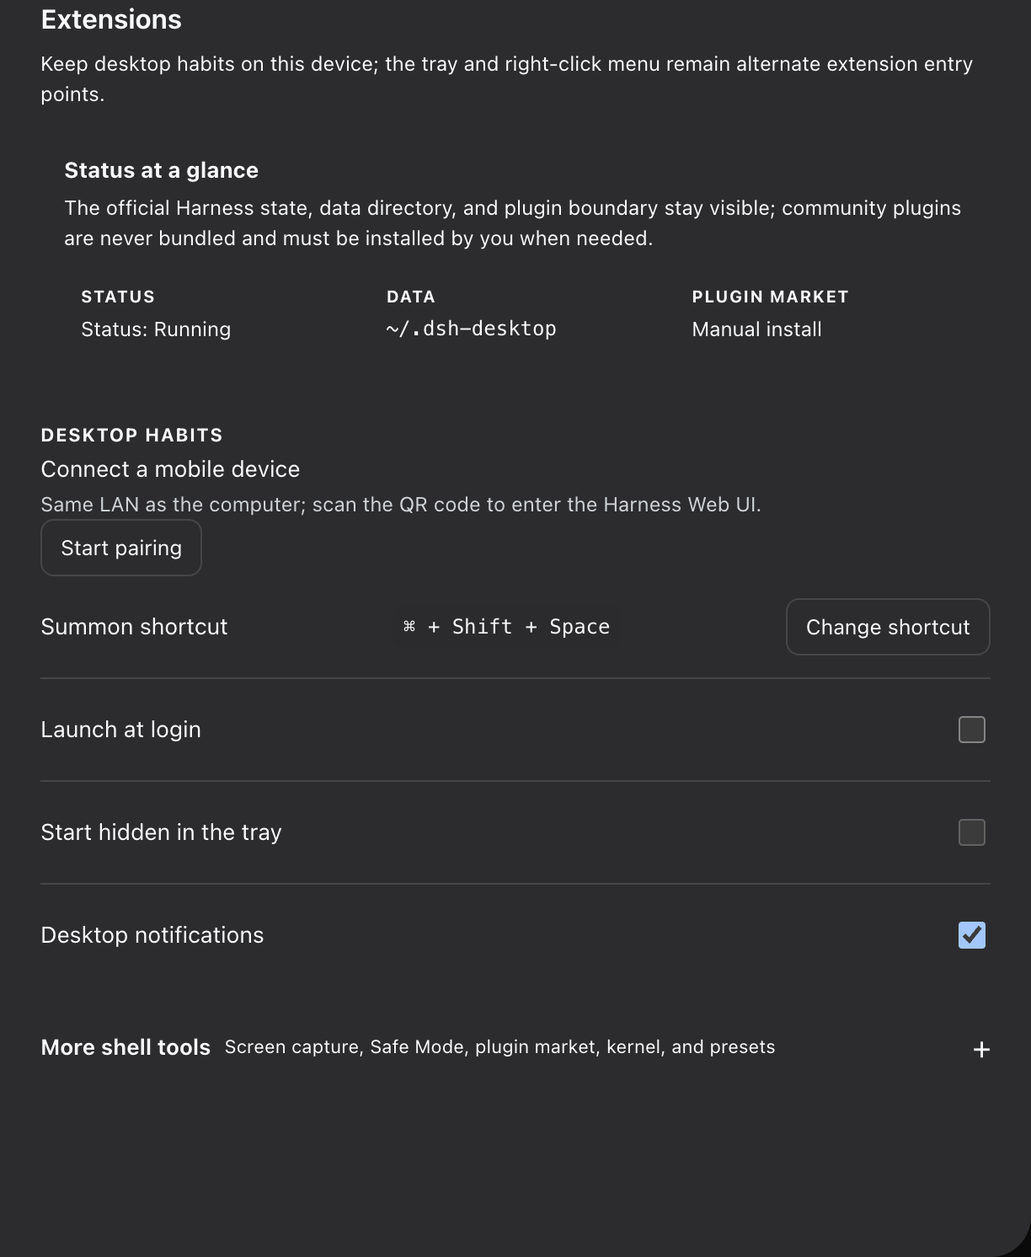
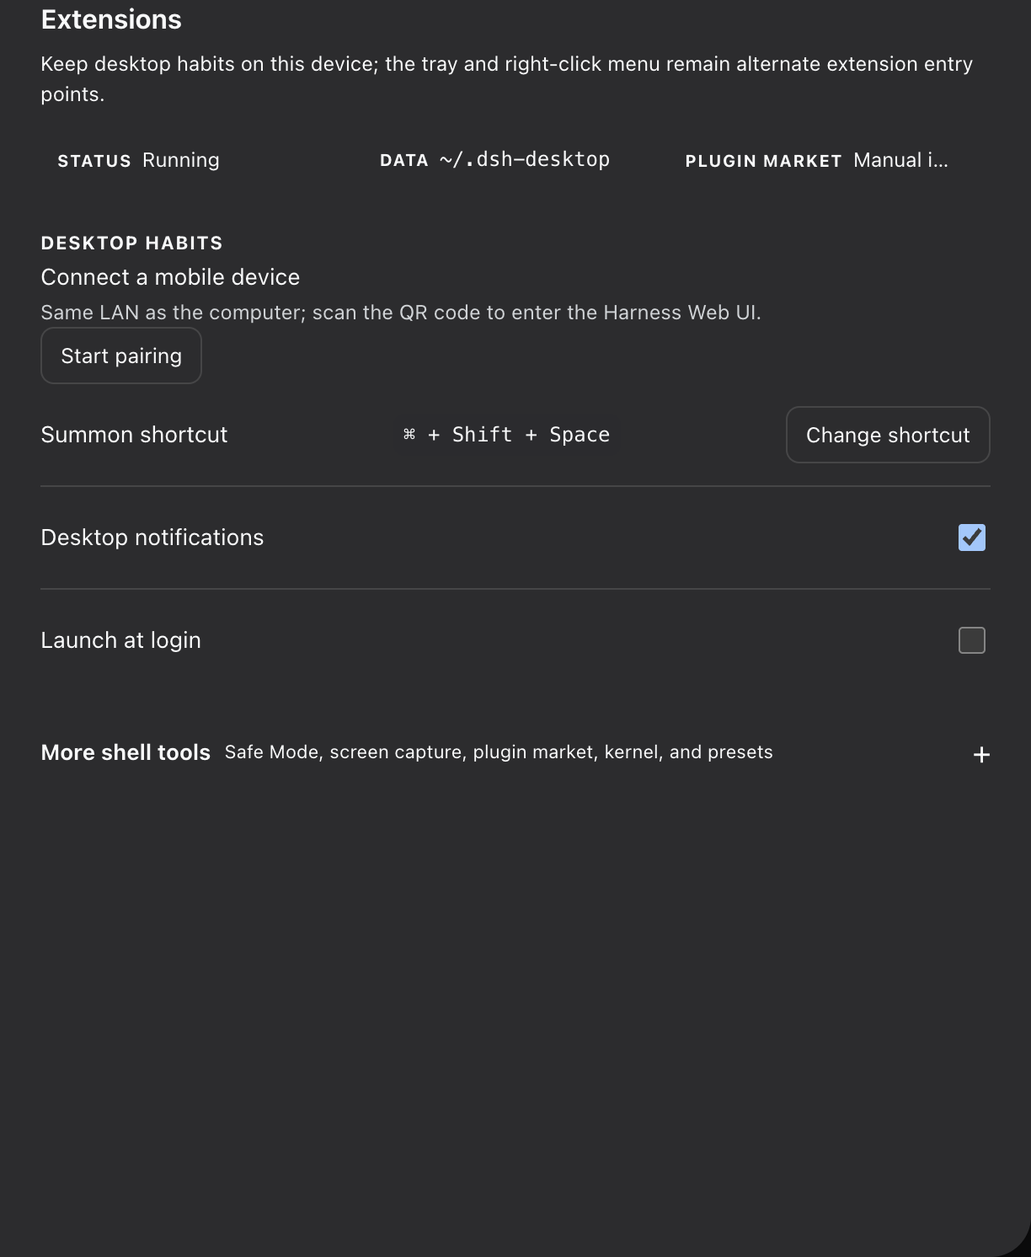
fix(shell): prioritize usable extension settings

diff --git a/plugins/dsh-desktop-controls/lib/client.js b/plugins/dsh-desktop-controls/lib/client.js
@@ -172,25 +172,33 @@ window.__ModuleLoader__.load({
       [data-dsh-desktop-settings] [data-dsh-desktop-setting-row]:last-child { border-bottom: 0; }
       [data-dsh-desktop-settings] [data-dsh-desktop-status-summary] {
         display: grid;
-        gap: 8px;
+        gap: 0;
         grid-template-columns: repeat(3, minmax(0, 1fr));
-        margin-top: 10px;
+        margin-top: 0;
       }
       [data-dsh-desktop-settings] [data-dsh-desktop-status-item] {
-        background: color-mix(in srgb, var(--dsh-controls-accent) 6%, transparent);
-        border: 1px solid color-mix(in srgb, var(--dsh-controls-accent) 16%, var(--dsh-controls-border));
-        border-radius: 9px;
-        display: block;
+        align-items: baseline;
+        background: transparent;
+        border: 0;
+        border-left: 1px solid color-mix(in srgb, var(--dsh-controls-accent) 20%, var(--dsh-controls-border));
+        border-radius: 0;
+        display: flex;
+        gap: 6px;
         min-width: 0;
-        padding: 8px 10px;
+        padding: 1px 10px;
+      }
+      [data-dsh-desktop-settings] [data-dsh-desktop-status-item]:first-child {
+        border-left: 0;
+        padding-left: 0;
       }
       [data-dsh-desktop-settings] [data-dsh-desktop-status-item] strong {
         color: var(--dsh-controls-muted);
-        display: block;
+        display: inline;
+        flex: 0 0 auto;
         font-size: 10px;
         font-weight: 700;
         letter-spacing: .06em;
-        margin-bottom: 3px;
+        margin: 0;
         text-transform: uppercase;
       }
       [data-dsh-desktop-settings] [data-dsh-desktop-status-item] > span,
@@ -199,6 +207,7 @@ window.__ModuleLoader__.load({
         font-size: 12px;
         line-height: 1.35;
         overflow: hidden;
+        min-width: 0;
         text-overflow: ellipsis;
         white-space: nowrap;
       }
@@ -266,35 +275,14 @@ window.__ModuleLoader__.load({
         margin: 10px 0 0;
       }
       [data-dsh-desktop-onboarding] {
+        align-items: center;
         background: color-mix(in srgb, var(--dsh-controls-accent) 7%, transparent);
         border: 1px solid color-mix(in srgb, var(--dsh-controls-accent) 18%, var(--dsh-controls-border));
-        border-radius: 12px;
-        margin: 0 0 16px;
-        padding: 12px 14px;
+        border-radius: 10px;
+        display: grid;
+        margin: 0 0 12px;
+        padding: 7px 10px;
       }
-      [data-dsh-desktop-onboarding] [data-dsh-desktop-onboarding-title] {
-        font-size: 13px;
-        font-weight: 700;
-        margin: 0;
-      }
-      [data-dsh-desktop-onboarding] [data-dsh-desktop-onboarding-copy] {
-        color: var(--dsh-controls-muted);
-        font-size: 12px;
-        line-height: 1.5;
-        margin: 3px 0 8px;
-      }
-      [data-dsh-desktop-onboarding] ol { list-style: none; margin: 0; padding: 0; }
-      [data-dsh-desktop-onboarding] li {
-        align-items: baseline;
-        display: flex;
-        gap: 7px;
-        font-size: 12px;
-        line-height: 1.5;
-        margin: 4px 0;
-      }
-      [data-dsh-desktop-onboarding] li::before { color: var(--dsh-controls-accent); content: "✓"; font-weight: 800; }
-      [data-dsh-desktop-onboarding] li[data-dsh-onboarding-pending]::before { content: "•"; }
-      [data-dsh-desktop-onboarding] code { font-size: 11px; overflow-wrap: anywhere; }
       [data-dsh-desktop-settings-group] {
         border-top: 1px solid var(--dsh-controls-border);
         margin-top: 14px;
@@ -380,6 +368,16 @@ window.__ModuleLoader__.load({
         [data-dsh-desktop-controls] { top: 12px; right: 12px; }
         [data-dsh-desktop-controls] [data-dsh-controls-label] { display: none; }
         [data-dsh-desktop-settings] [data-dsh-desktop-status-summary] { grid-template-columns: 1fr; }
+        [data-dsh-desktop-settings] [data-dsh-desktop-status-item],
+        [data-dsh-desktop-settings] [data-dsh-desktop-status-item]:first-child {
+          border-left: 0;
+          border-top: 1px solid color-mix(in srgb, var(--dsh-controls-accent) 20%, var(--dsh-controls-border));
+          padding: 7px 0 1px;
+        }
+        [data-dsh-desktop-settings] [data-dsh-desktop-status-item]:first-child {
+          border-top: 0;
+          padding-top: 1px;
+        }
       }
       @media (prefers-reduced-motion: reduce) {
         [data-dsh-desktop-controls] [data-dsh-controls-trigger] { transition: none; }
@@ -399,8 +397,6 @@ window.__ModuleLoader__.load({
         restartHarness: "重启 Harness",
         unavailable: "请右键窗口或点击系统托盘图标使用扩展入口。",
         settingsTitle: "扩展设置", settingsCopy: "把本机桌面习惯放在这里；系统托盘和右键窗口也能进入扩展入口。",
-        firstLaunchTitle: "运行状态",
-        firstLaunchCopy: "官方 Harness、数据目录和插件安装边界都保持可见；社区插件不会随包安装，需要时请由你手动安装。",
         harnessReady: "官方 Harness 已就绪",
         harnessStarting: "官方 Harness 正在启动",
         statusLabel: "状态", dataLabel: "数据", marketLabel: "插件市场", marketReady: "已安装", marketManual: "需手动安装",
@@ -429,7 +425,7 @@ window.__ModuleLoader__.load({
         safeModeSuspect: "疑似插件：{id}（{name}），可在官方「设置 → 插件」中卸载。",
         presetsTitle: "Agent 预设", presetsDetail: "导出或导入 .dshpreset 便携预设包，备份或分享 Agent 预设。",
         presetsExport: "导出预设", presetsImport: "导入预设",
-        advancedTitle: "更多扩展工具", advancedDetail: "屏幕捕获、安全模式、插件市场、内核和预设",
+        advancedTitle: "更多扩展工具", advancedDetail: "安全模式、屏幕捕获、插件市场、内核和预设",
         presetExported: "已导出 {name}。", presetImported: "已导入 {name}。",
         presetSkipped: "已跳过 {name}。", presetInvalid: "文件无效或操作失败。",
         presetEmpty: "没有可导出的用户预设。",
@@ -442,8 +438,6 @@ window.__ModuleLoader__.load({
         restartHarness: "Restart Harness",
         unavailable: "Right-click the window or use the system tray for extensions.",
         settingsTitle: "Extensions", settingsCopy: "Keep desktop habits on this device; the tray and right-click menu remain alternate extension entry points.",
-        firstLaunchTitle: "Status at a glance",
-        firstLaunchCopy: "The official Harness state, data directory, and plugin boundary stay visible; community plugins are never bundled and must be installed by you when needed.",
         harnessReady: "Official Harness is ready",
         harnessStarting: "Official Harness is starting",
         statusLabel: "Status", dataLabel: "Data", marketLabel: "Plugin market", marketReady: "Installed", marketManual: "Manual install",
@@ -472,7 +466,7 @@ window.__ModuleLoader__.load({
         safeModeSuspect: "Suspected plugin: {id} ({name}). Uninstall it from Settings → Plugins.",
         presetsTitle: "Agent presets", presetsDetail: "Export or import .dshpreset portable packages to back up or share agent presets.",
         presetsExport: "Export preset", presetsImport: "Import preset",
-        advancedTitle: "More shell tools", advancedDetail: "Screen capture, Safe Mode, plugin market, kernel, and presets",
+        advancedTitle: "More shell tools", advancedDetail: "Safe Mode, screen capture, plugin market, kernel, and presets",
         presetExported: "Exported {name}.", presetImported: "Imported {name}.",
         presetSkipped: "Skipped {name}.", presetInvalid: "The file is invalid or the operation failed.",
         presetEmpty: "There is no user preset to export.",
@@ -782,18 +776,18 @@ window.__ModuleLoader__.load({
       const canLaunch = preferences.launchAtLoginAvailable === true;
       const market = marketStatus ?? startup?.market ?? { state: "missing" };
       const marketState = market.state ?? "missing";
+      const currentStatus = startup?.statusLabel ?? (startup?.harnessPhase === "ready" ? copy.harnessReady : copy.harnessStarting);
+      const compactStatus = currentStatus.replace(/^[^:：]+[:：]\s*/, "");
       return react_jsx_runtime.jsxs("div", {
         "data-dsh-desktop-settings": true,
         children: [
           react_jsx_runtime.jsx("h3", { "data-dsh-desktop-settings-heading": true, children: copy.settingsTitle }),
           react_jsx_runtime.jsx("p", { "data-dsh-desktop-settings-copy": true, children: copy.settingsCopy }),
-          react_jsx_runtime.jsxs("section", { "data-dsh-desktop-onboarding": true, "aria-label": copy.firstLaunchTitle, children: [
-            react_jsx_runtime.jsx("h4", { "data-dsh-desktop-onboarding-title": true, children: copy.firstLaunchTitle }),
-            react_jsx_runtime.jsx("p", { "data-dsh-desktop-onboarding-copy": true, children: copy.firstLaunchCopy }),
+          react_jsx_runtime.jsxs("section", { "data-dsh-desktop-onboarding": true, "aria-label": copy.statusLabel, children: [
             react_jsx_runtime.jsxs("div", { "data-dsh-desktop-status-summary": true, children: [
               react_jsx_runtime.jsxs("span", { "data-dsh-desktop-status-item": true, children: [
                 react_jsx_runtime.jsx("strong", { children: copy.statusLabel }),
-                react_jsx_runtime.jsx("span", { "data-dsh-onboarding-stage": startup?.harnessStage ?? null, "data-dsh-onboarding-done": startup?.harnessPhase === "ready" || null, "data-dsh-onboarding-pending": startup?.harnessPhase !== "ready" || null, children: startup?.statusLabel ?? (startup?.harnessPhase === "ready" ? copy.harnessReady : copy.harnessStarting) }),
+                react_jsx_runtime.jsx("span", { "data-dsh-onboarding-stage": startup?.harnessStage ?? null, "data-dsh-onboarding-done": startup?.harnessPhase === "ready" || null, "data-dsh-onboarding-pending": startup?.harnessPhase !== "ready" || null, children: compactStatus }),
               ] }),
               react_jsx_runtime.jsxs("span", { "data-dsh-desktop-status-item": true, children: [
                 react_jsx_runtime.jsx("strong", { children: copy.dataLabel }),
@@ -819,21 +813,18 @@ window.__ModuleLoader__.load({
             react_jsx_runtime.jsxs("span", { "data-dsh-desktop-shortcut": true, children: recording ? copy.recording : preferences.shortcutLabel }),
             react_jsx_runtime.jsx("button", { type: "button", "data-dsh-desktop-record": true, disabled: recording, onClick: () => { setMessage(""); setRecording(true); }, children: recording ? "…" : copy.record }),
           ] }),
-          react_jsx_runtime.jsxs("label", { "data-dsh-desktop-setting-row": true, children: [
-            react_jsx_runtime.jsxs("span", { "data-dsh-desktop-setting-label": true, children: [copy.launchAtLogin, !canLaunch ? react_jsx_runtime.jsx("small", { "data-dsh-desktop-setting-detail": true, children: copy.unsupported }) : null] }),
-            react_jsx_runtime.jsx("input", { "data-dsh-desktop-checkbox": true, type: "checkbox", checked: preferences.launchAtLogin === true, disabled: !canLaunch, onChange: (event) => void update({ launchAtLogin: event.target.checked }) }),
-          ] }),
-          react_jsx_runtime.jsxs("label", { "data-dsh-desktop-setting-row": true, children: [
-            react_jsx_runtime.jsx("span", { "data-dsh-desktop-setting-label": true, children: copy.launchHidden }),
-            react_jsx_runtime.jsx("input", { "data-dsh-desktop-checkbox": true, type: "checkbox", checked: preferences.launchHidden === true, disabled: !canLaunch || preferences.launchAtLogin !== true, onChange: (event) => void update({ launchHidden: event.target.checked }) }),
-          ] }),
-          react_jsx_runtime.jsxs("label", { "data-dsh-desktop-setting-row": true, children: [
+          preferences.notificationsAvailable === true ? react_jsx_runtime.jsxs("label", { "data-dsh-desktop-setting-row": true, children: [
             react_jsx_runtime.jsx("span", { "data-dsh-desktop-setting-label": true, children: copy.notifications }),
-            react_jsx_runtime.jsxs("span", { "data-dsh-desktop-lan-actions": true, children: [
-              react_jsx_runtime.jsx("input", { "data-dsh-desktop-checkbox": true, type: "checkbox", checked: preferences.notificationsEnabled === true, disabled: preferences.notificationsAvailable !== true, onChange: (event) => void update({ notificationsEnabled: event.target.checked }) }),
-              preferences.notificationsAvailable !== true ? react_jsx_runtime.jsx("small", { "data-dsh-desktop-setting-detail": true, children: copy.unsupported }) : null,
-            ] }),
-          ] }),
+            react_jsx_runtime.jsx("input", { "data-dsh-desktop-checkbox": true, type: "checkbox", checked: preferences.notificationsEnabled === true, onChange: (event) => void update({ notificationsEnabled: event.target.checked }) }),
+          ] }) : null,
+          canLaunch ? react_jsx_runtime.jsxs("label", { "data-dsh-desktop-setting-row": true, children: [
+            react_jsx_runtime.jsx("span", { "data-dsh-desktop-setting-label": true, children: copy.launchAtLogin }),
+            react_jsx_runtime.jsx("input", { "data-dsh-desktop-checkbox": true, type: "checkbox", checked: preferences.launchAtLogin === true, onChange: (event) => void update({ launchAtLogin: event.target.checked }) }),
+          ] }) : null,
+          canLaunch && preferences.launchAtLogin === true ? react_jsx_runtime.jsxs("label", { "data-dsh-desktop-setting-row": true, children: [
+            react_jsx_runtime.jsx("span", { "data-dsh-desktop-setting-label": true, children: copy.launchHidden }),
+            react_jsx_runtime.jsx("input", { "data-dsh-desktop-checkbox": true, type: "checkbox", checked: preferences.launchHidden === true, onChange: (event) => void update({ launchHidden: event.target.checked }) }),
+          ] }) : null,
           ] }),
           react_jsx_runtime.jsxs("details", { "data-dsh-desktop-advanced": true, children: [
             react_jsx_runtime.jsxs("summary", { children: [
@@ -841,17 +832,17 @@ window.__ModuleLoader__.load({
               react_jsx_runtime.jsx("small", { children: copy.advancedDetail }),
             ] }),
           react_jsx_runtime.jsxs("section", { "data-dsh-desktop-settings-group": true, children: [
-            react_jsx_runtime.jsx("h4", { "data-dsh-desktop-settings-group-title": true, children: copy.groupOptional }),
-          react_jsx_runtime.jsxs("label", { "data-dsh-desktop-setting-row": true, children: [
-            react_jsx_runtime.jsxs("span", { "data-dsh-desktop-setting-label": true, children: [copy.screenCapture, react_jsx_runtime.jsx("small", { "data-dsh-desktop-setting-detail": true, children: copy.screenCaptureDetail })] }),
-            react_jsx_runtime.jsx("input", { "data-dsh-desktop-checkbox": true, type: "checkbox", checked: preferences.screenCapture === true, onChange: (event) => void update({ screenCapture: event.target.checked }) }),
-          ] }),
-          ] }),
-          react_jsx_runtime.jsxs("section", { "data-dsh-desktop-settings-group": true, children: [
             react_jsx_runtime.jsx("h4", { "data-dsh-desktop-settings-group-title": true, children: copy.groupRecovery }),
           react_jsx_runtime.jsxs("div", { "data-dsh-desktop-setting-row": true, children: [
             react_jsx_runtime.jsxs("span", { "data-dsh-desktop-setting-label": true, children: [copy.safeMode, react_jsx_runtime.jsx("small", { "data-dsh-desktop-setting-detail": true, children: copy.safeModeDetail })] }),
             react_jsx_runtime.jsx("button", { type: "button", "data-dsh-desktop-lan-target": true, disabled: safeBusy, onClick: () => void safeAction(), children: preferences?.safeMode === true ? copy.safeModeExit : copy.safeModeStart }),
+          ] }),
+          ] }),
+          react_jsx_runtime.jsxs("section", { "data-dsh-desktop-settings-group": true, children: [
+            react_jsx_runtime.jsx("h4", { "data-dsh-desktop-settings-group-title": true, children: copy.groupOptional }),
+          react_jsx_runtime.jsxs("label", { "data-dsh-desktop-setting-row": true, children: [
+            react_jsx_runtime.jsxs("span", { "data-dsh-desktop-setting-label": true, children: [copy.screenCapture, react_jsx_runtime.jsx("small", { "data-dsh-desktop-setting-detail": true, children: copy.screenCaptureDetail })] }),
+            react_jsx_runtime.jsx("input", { "data-dsh-desktop-checkbox": true, type: "checkbox", checked: preferences.screenCapture === true, onChange: (event) => void update({ screenCapture: event.target.checked }) }),
           ] }),
           ] }),
           react_jsx_runtime.jsxs("section", { "data-dsh-desktop-settings-group": true, children: [

diff --git a/site/assets/data-model.js b/site/assets/data-model.js
@@ -31,8 +31,8 @@ export var I18N = {
     'showcase.s2.items': '<li>扩展面板显示当前 Harness 运行状态</li><li>配对、Safe Mode、重启与 About 集中可达</li><li>窗口右键与系统托盘继续提供备用入口</li>',
     'showcase.s2.caption': '真实截图 · 扩展控制面板',
     'showcase.s3.title': '扩展设置，把关键桌面入口放在首屏',
-    'showcase.s3.body': '设置页首屏只保留运行状态、数据目录、局域网配对、快捷键、启动行为和通知；不常用的恢复与资源操作收进“更多扩展工具”。',
-    'showcase.s3.items': '<li>首屏看到状态、数据目录和手动插件边界</li><li>配对、快捷键、开机启动、托盘和通知直接可用</li><li>屏幕捕获、Safe Mode、内核和预设进入二级区域</li>',
+    'showcase.s3.body': '设置页首屏按日常使用频率排列：状态与数据先看，配对、快捷键和通知直接可用；平台不支持的启动能力不再伪装成灰色选项，低频工具收进“更多扩展工具”。',
+    'showcase.s3.items': '<li>首屏看到状态、数据目录和手动插件边界</li><li>配对、快捷键和通知直接可用；开机启动仅在支持的 macOS / Windows 安装包显示</li><li>Safe Mode、屏幕捕获、插件市场、内核和预设进入二级区域</li>',
     'showcase.s3.caption': '真实截图 · 设置 → 扩展设置（核心）',
     'showcase.note': '截图来自真实应用构建；中英文与明暗主题均与应用状态配对，扩展设置只展示收敛后的核心页，低频工具放在应用内二级区域。点击截图可查看原图。',
     'hero.downloads': '↓{n}次下载 · GitHub + GitCode',
@@ -179,8 +179,8 @@ export var I18N = {
     'showcase.s2.items': '<li>Current Harness runtime status stays visible</li><li>Pairing, Safe Mode, restart, and About in one panel</li><li>Window context menu and system tray remain fallback routes</li>',
     'showcase.s2.caption': 'Real capture · extensions control panel',
     'showcase.s3.title': 'Extensions settings, focused on the desktop essentials',
-    'showcase.s3.body': 'The first view keeps runtime status, local data, LAN pairing, shortcuts, startup behavior, and notifications together. Less frequent recovery and resource actions live under “More shell tools”.',
-    'showcase.s3.items': '<li>Status, data directory, and the manual plugin boundary at a glance</li><li>Pairing, shortcut, login, tray, and notification controls up front</li><li>Screen capture, Safe Mode, kernel, and presets behind a secondary section</li>',
+    'showcase.s3.body': 'The first view follows daily-use priority: status and data first, pairing, shortcuts, and notifications close at hand. Unsupported startup controls are omitted instead of shown as inert options; less frequent tools live under “More shell tools”.',
+    'showcase.s3.items': '<li>Status, data directory, and the manual plugin boundary at a glance</li><li>Pairing, shortcut, and notification controls up front; startup controls appear only in supported packaged macOS / Windows builds</li><li>Safe Mode, screen capture, plugin market, kernel, and presets behind a secondary section</li>',
     'showcase.s3.caption': 'Real capture · Settings → Extensions (core)',
     'showcase.note': 'Captured from real application builds. Chinese/English and light/dark screenshots are paired with the app state; the Extensions card shows the focused core view, with less frequent tools tucked behind the app’s secondary section. Click any screenshot to open the original.',
     'hero.downloads': '↓{n} downloads · GitHub + GitCode',

diff --git a/site/index.html b/site/index.html
@@ -192,8 +192,8 @@
               <div class="showcase__copy">
                 <p class="showcase__eyebrow">03 / EXTENSIONS SETTINGS</p>
                 <h3 data-i18n="showcase.s3.title">扩展设置，把关键桌面入口放在首屏</h3>
-                <p data-i18n="showcase.s3.body">设置页首屏只保留运行状态、数据目录、局域网配对、快捷键、启动行为和通知；不常用的恢复与资源操作收进“更多扩展工具”。</p>
-                <ul data-i18n="showcase.s3.items"><li>首屏看到状态、数据目录和手动插件边界</li><li>配对、快捷键、开机启动、托盘和通知直接可用</li><li>屏幕捕获、Safe Mode、内核和预设进入二级区域</li></ul>
+                <p data-i18n="showcase.s3.body">设置页首屏按日常使用频率排列：状态与数据先看，配对、快捷键和通知直接可用；平台不支持的启动能力不再伪装成灰色选项，低频工具收进“更多扩展工具”。</p>
+                <ul data-i18n="showcase.s3.items"><li>首屏看到状态、数据目录和手动插件边界</li><li>配对、快捷键和通知直接可用；开机启动仅在支持的 macOS / Windows 安装包显示</li><li>Safe Mode、屏幕捕获、插件市场、内核和预设进入二级区域</li></ul>
               </div>
               <figure class="showcase__frame">
                 <figcaption><span data-i18n="showcase.s3.caption">真实截图 · 设置 → 扩展设置（核心）</span><span class="showcase__theme-note" data-i18n="showcase.themes">浅色 / 深色</span></figcaption>

diff --git a/site/en/index.html b/site/en/index.html
@@ -93,8 +93,8 @@
             <div class="showcase__copy">
               <p class="showcase__eyebrow">03 / EXTENSIONS SETTINGS</p>
               <h3>Extensions settings, focused on the desktop essentials</h3>
-              <p>The first view keeps runtime status, local data, LAN pairing, shortcuts, startup behavior, and notifications together. Less frequent recovery and resource actions live under “More shell tools”.</p>
-              <ul><li>Status, data directory, and the manual plugin boundary at a glance</li><li>Pairing, shortcut, login, tray, and notification controls up front</li><li>Screen capture, Safe Mode, kernel, and presets behind a secondary section</li></ul>
+              <p>The first view follows daily-use priority: status and data first, pairing, shortcuts, and notifications close at hand. Unsupported startup controls are omitted instead of shown as inert options; less frequent tools live under “More shell tools”.</p>
+                <ul><li>Status, data directory, and the manual plugin boundary at a glance</li><li>Pairing, shortcut, and notification controls up front; startup controls appear only in supported packaged macOS / Windows builds</li><li>Safe Mode, screen capture, plugin market, kernel, and presets behind a secondary section</li></ul>
             </div>
             <figure class="showcase__frame">
               <figcaption><span>Real capture · Settings → Extensions (core)</span><span class="showcase__theme-note">LIGHT / DARK</span></figcaption>

diff --git a/e2e/electron-shell.spec.ts b/e2e/electron-shell.spec.ts
@@ -548,6 +548,9 @@ shellTest('packaged app shows a desktop notice for a real state edge and restore
   const advancedSettings = settings.locator('[data-dsh-desktop-advanced]')
   await expect(advancedSettings).toHaveCount(1)
   expect(await advancedSettings.getAttribute('open')).toBe(null)
+  // Dependent and unsupported controls should not occupy the core surface:
+  // start-hidden has no effect until launch-at-login is enabled.
+  await expect(settings.getByText('Start hidden in the tray', { exact: true })).toHaveCount(0)
   await settings.screenshot({ path: testInfo.outputPath('02-desktop-preferences.png') })
   await advancedSettings.locator('summary').click()
   await expect.poll(() => window.evaluate(() => document.querySelector('[data-dsh-desktop-advanced]')?.hasAttribute('open') ?? false)).toBe(true)

diff --git a/plugins/dsh-desktop-controls/README.md b/plugins/dsh-desktop-controls/README.md
@@ -13,9 +13,12 @@ or disable local desktop status notices.
 
 The first view stays focused on the desktop essentials: runtime status, the isolated
 data directory, the manual community-plugin boundary, LAN pairing, the summon
-shortcut, startup behavior, and notifications. Lower-frequency controls — screen
-capture, Safe Mode, the plugin market, kernel actions, and portable presets — live
-under the collapsed "More shell tools" section.
+shortcut, startup behavior, and notifications. Lower-frequency controls — Safe Mode,
+screen capture, the plugin market, kernel actions, and portable presets — live under
+the collapsed "More shell tools" section. Platform-dependent controls are rendered
+only when usable: launch-at-login is available in packaged macOS/Windows builds,
+start-hidden appears only after launch-at-login is enabled, and unavailable desktop
+notifications are omitted instead of shown as disabled controls.
 
 Status notices are derived from the Harness `useSessions` public state exposed to
 the plugin. The plugin does not read screenshots or the DOM to infer activity,
